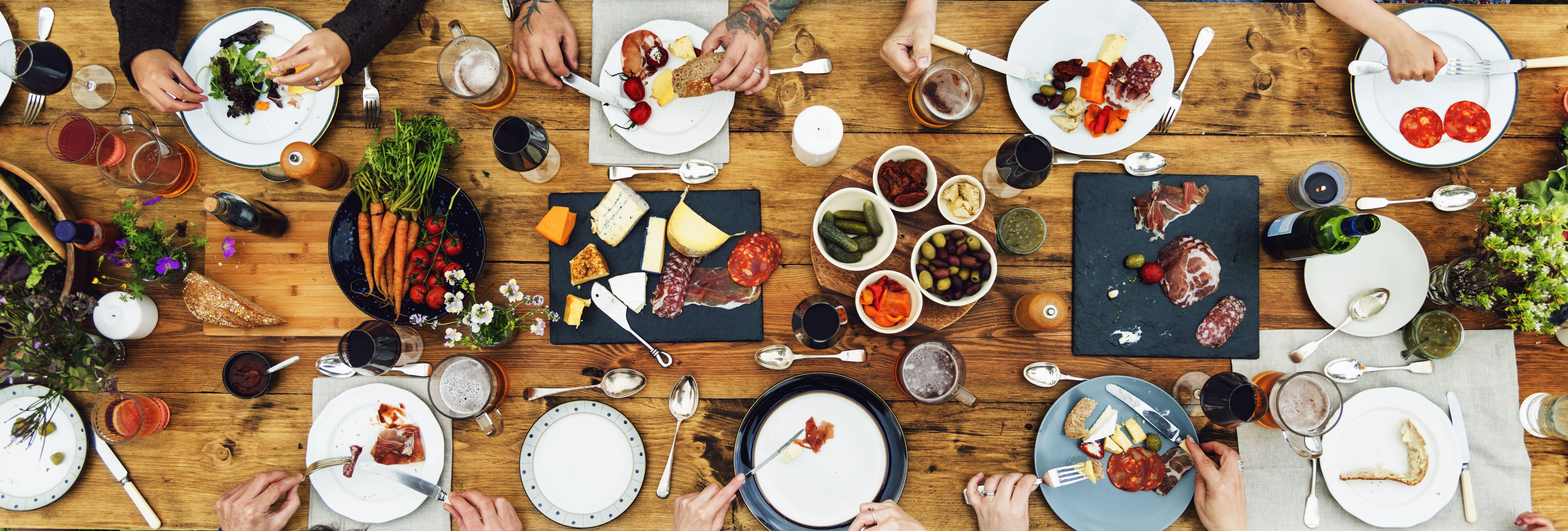
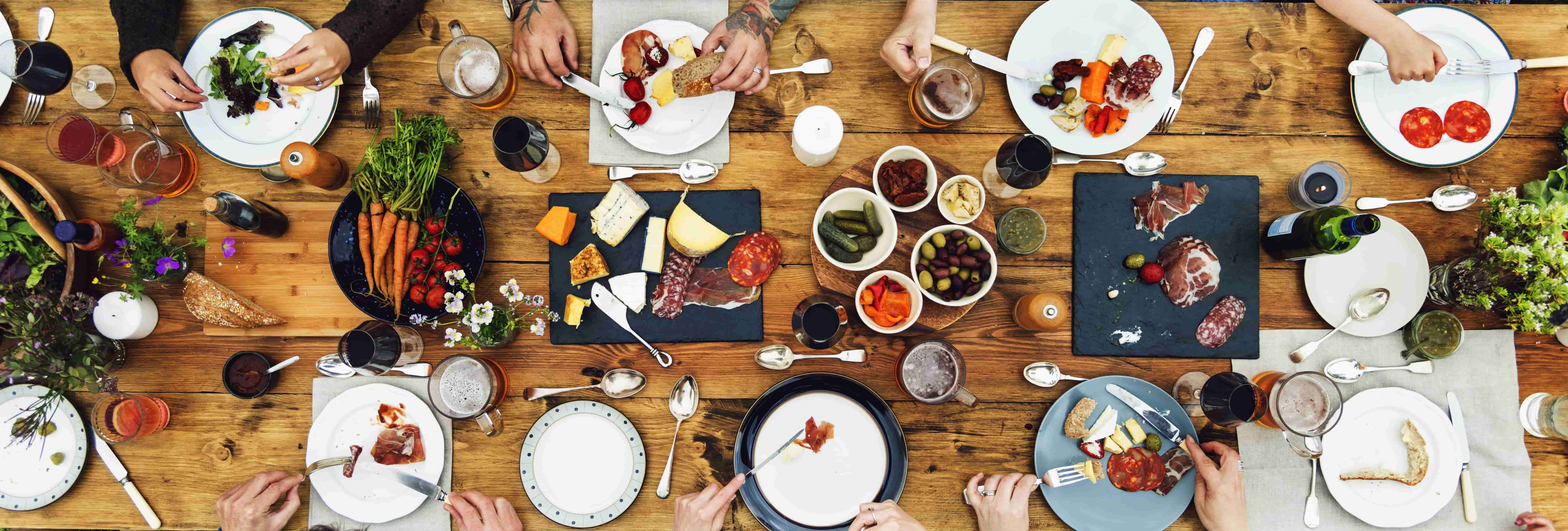
adjusted

diff --git a/app/assets/stylesheets/merchant.scss b/app/assets/stylesheets/merchant.scss
@@ -101,8 +101,8 @@ body {
   height: 80vh;
   background: 
     linear-gradient(
-      rgba(0, 0, 0, 0.7), 
-      rgba(0, 0, 0, 0.7)
+      rgba(0, 0, 0, 0.5), 
+      rgba(0, 0, 0, 0.5)
     ),
     url('merchant3.jpg'); 
   background-size: cover;
